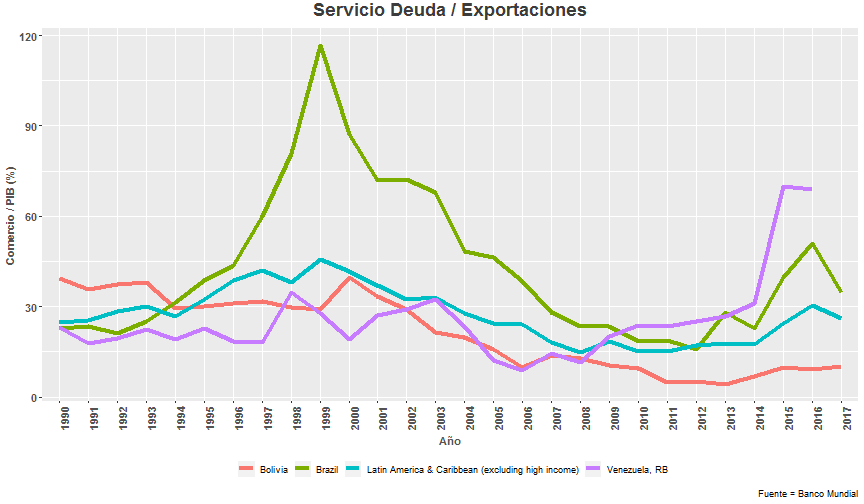
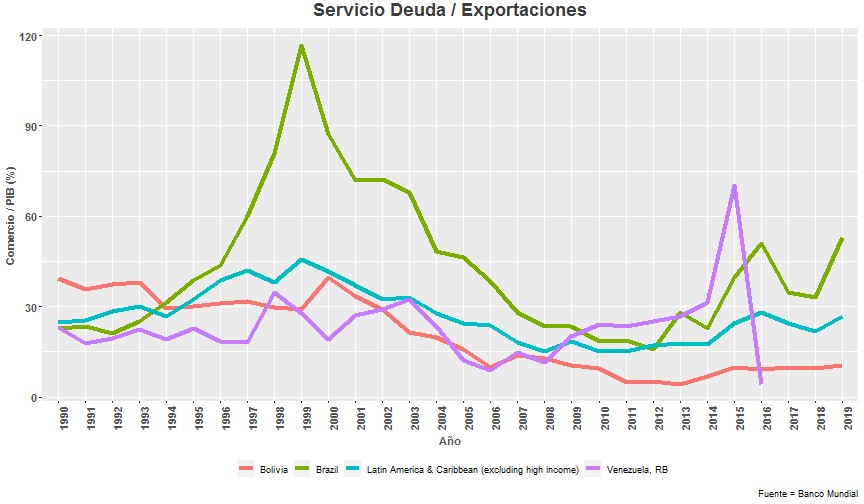
Update graphs & tables up to 2019, fix table dimensions in IMF data, update bankia graphs

diff --git a/presentacion2.html b/presentacion2.html
@@ -14,7 +14,7 @@ class: center, middle, inverse, title-slide
 
 # Economías Emergentes
 ### Kamal Romero
-### Marzo 2019 (actualizado: 2019-11-09)
+### (actualizado: 2020-12-09)
 
 ---
 
@@ -52,7 +52,7 @@ Gran parte de la inversión española en el exterior está en economías emergen
 
 Durante años las necesidades de financiación han sido cubiertas por el resto del mundo
 
-&lt;img src="Dibujo.jpg" width="700"&gt;
+&lt;img src="cap2.jpg" width="700"&gt;
 
 ---
 
@@ -60,7 +60,7 @@ Durante años las necesidades de financiación han sido cubiertas por el resto d
 
 Durante años las necesidades de financiación han sido cubiertas por el resto del mundo
 
-&lt;img src="deuda.png" width="700"&gt;
+&lt;img src="PIIN20.png" width="700"&gt;
 
 ---
 
@@ -140,31 +140,31 @@ Las economías emergentes tienden a ser más &lt;span style="color:blue"&gt; *ab
 &lt;tbody&gt;
   &lt;tr&gt;
    &lt;td style="text-align:left;"&gt; East Asia &amp;amp; Pacific &lt;/td&gt;
-   &lt;td style="text-align:right;"&gt; 54.22541 &lt;/td&gt;
+   &lt;td style="text-align:right;"&gt; 54.30 &lt;/td&gt;
   &lt;/tr&gt;
   &lt;tr&gt;
    &lt;td style="text-align:left;"&gt; European Union &lt;/td&gt;
-   &lt;td style="text-align:right;"&gt; 68.11252 &lt;/td&gt;
+   &lt;td style="text-align:right;"&gt; 71.96 &lt;/td&gt;
   &lt;/tr&gt;
   &lt;tr&gt;
    &lt;td style="text-align:left;"&gt; Japan &lt;/td&gt;
-   &lt;td style="text-align:right;"&gt; 24.91985 &lt;/td&gt;
+   &lt;td style="text-align:right;"&gt; 25.33 &lt;/td&gt;
   &lt;/tr&gt;
   &lt;tr&gt;
    &lt;td style="text-align:left;"&gt; Latin America &amp;amp; Caribbean &lt;/td&gt;
-   &lt;td style="text-align:right;"&gt; 39.92639 &lt;/td&gt;
+   &lt;td style="text-align:right;"&gt; 40.35 &lt;/td&gt;
   &lt;/tr&gt;
   &lt;tr&gt;
    &lt;td style="text-align:left;"&gt; Middle East &amp;amp; North Africa &lt;/td&gt;
-   &lt;td style="text-align:right;"&gt; 73.12435 &lt;/td&gt;
+   &lt;td style="text-align:right;"&gt; 73.58 &lt;/td&gt;
   &lt;/tr&gt;
   &lt;tr&gt;
    &lt;td style="text-align:left;"&gt; North America &lt;/td&gt;
-   &lt;td style="text-align:right;"&gt; 28.69831 &lt;/td&gt;
+   &lt;td style="text-align:right;"&gt; 28.83 &lt;/td&gt;
   &lt;/tr&gt;
   &lt;tr&gt;
    &lt;td style="text-align:left;"&gt; Sub-Saharan Africa &lt;/td&gt;
-   &lt;td style="text-align:right;"&gt; 55.20591 &lt;/td&gt;
+   &lt;td style="text-align:right;"&gt; 54.81 &lt;/td&gt;
   &lt;/tr&gt;
 &lt;/tbody&gt;
 &lt;/table&gt;
@@ -175,7 +175,7 @@ Las economías emergentes tienden a ser más &lt;span style="color:blue"&gt; *ab
 
 Las economías emergentes tienden a ser más &lt;span style="color:blue"&gt; *abiertas* &lt;/span&gt;, es decir, el comercio internacional tiene un mayor peso en su economía.
 
-&lt;center&gt; &lt;span style="color:red"&gt; *FALSO* &lt;/span&gt; &lt;/center&gt;
+&lt;center&gt; &lt;span style="color:red"&gt; FALSO &lt;/span&gt; &lt;/center&gt;
 
 ---
 
@@ -251,40 +251,40 @@ Y la consecuencia de esto es ...
  &lt;thead&gt;
   &lt;tr&gt;
    &lt;th style="text-align:left;"&gt; Conceptos &lt;/th&gt;
-   &lt;th style="text-align:right;"&gt; Emerging Market and Middle-Income Economies &lt;/th&gt;
-   &lt;th style="text-align:right;"&gt; Major Advanced Economies - G7 &lt;/th&gt;
-   &lt;th style="text-align:right;"&gt; Advanced Economies (IMF) &lt;/th&gt;
-   &lt;th style="text-align:right;"&gt; Emerging Market Latin America &lt;/th&gt;
+   &lt;th style="text-align:center;"&gt; Emerging Market and Middle-Income Economies &lt;/th&gt;
+   &lt;th style="text-align:center;"&gt; Major Advanced Economies - G7 &lt;/th&gt;
+   &lt;th style="text-align:center;"&gt; Advanced Economies (IMF) &lt;/th&gt;
+   &lt;th style="text-align:center;"&gt; Emerging Market Latin America &lt;/th&gt;
   &lt;/tr&gt;
  &lt;/thead&gt;
 &lt;tbody&gt;
   &lt;tr&gt;
    &lt;td style="text-align:left;"&gt; Balance &lt;/td&gt;
-   &lt;td style="text-align:right;"&gt; -1.871421 &lt;/td&gt;
-   &lt;td style="text-align:right;"&gt; -4.556874 &lt;/td&gt;
-   &lt;td style="text-align:right;"&gt; -3.754435 &lt;/td&gt;
-   &lt;td style="text-align:right;"&gt; -3.119174 &lt;/td&gt;
+   &lt;td style="text-align:center;"&gt; -2.13 &lt;/td&gt;
+   &lt;td style="text-align:center;"&gt; -4.50 &lt;/td&gt;
+   &lt;td style="text-align:center;"&gt; -3.69 &lt;/td&gt;
+   &lt;td style="text-align:center;"&gt; -3.29 &lt;/td&gt;
   &lt;/tr&gt;
   &lt;tr&gt;
    &lt;td style="text-align:left;"&gt; Expenditure &lt;/td&gt;
-   &lt;td style="text-align:right;"&gt; 28.863887 &lt;/td&gt;
-   &lt;td style="text-align:right;"&gt; 39.754507 &lt;/td&gt;
-   &lt;td style="text-align:right;"&gt; 39.529258 &lt;/td&gt;
-   &lt;td style="text-align:right;"&gt; 31.353223 &lt;/td&gt;
+   &lt;td style="text-align:center;"&gt; 29.17 &lt;/td&gt;
+   &lt;td style="text-align:center;"&gt; 39.74 &lt;/td&gt;
+   &lt;td style="text-align:center;"&gt; 39.50 &lt;/td&gt;
+   &lt;td style="text-align:center;"&gt; 31.51 &lt;/td&gt;
   &lt;/tr&gt;
   &lt;tr&gt;
    &lt;td style="text-align:left;"&gt; Gross debt &lt;/td&gt;
-   &lt;td style="text-align:right;"&gt; 41.356437 &lt;/td&gt;
-   &lt;td style="text-align:right;"&gt; 99.699018 &lt;/td&gt;
-   &lt;td style="text-align:right;"&gt; 89.103941 &lt;/td&gt;
-   &lt;td style="text-align:right;"&gt; 51.401823 &lt;/td&gt;
+   &lt;td style="text-align:center;"&gt; 42.40 &lt;/td&gt;
+   &lt;td style="text-align:center;"&gt; 101.76 &lt;/td&gt;
+   &lt;td style="text-align:center;"&gt; 90.92 &lt;/td&gt;
+   &lt;td style="text-align:center;"&gt; 53.30 &lt;/td&gt;
   &lt;/tr&gt;
   &lt;tr&gt;
    &lt;td style="text-align:left;"&gt; Revenue &lt;/td&gt;
-   &lt;td style="text-align:right;"&gt; 26.992977 &lt;/td&gt;
-   &lt;td style="text-align:right;"&gt; 35.197634 &lt;/td&gt;
-   &lt;td style="text-align:right;"&gt; 35.774823 &lt;/td&gt;
-   &lt;td style="text-align:right;"&gt; 28.234049 &lt;/td&gt;
+   &lt;td style="text-align:center;"&gt; 27.04 &lt;/td&gt;
+   &lt;td style="text-align:center;"&gt; 35.24 &lt;/td&gt;
+   &lt;td style="text-align:center;"&gt; 35.82 &lt;/td&gt;
+   &lt;td style="text-align:center;"&gt; 28.22 &lt;/td&gt;
   &lt;/tr&gt;
 &lt;/tbody&gt;
 &lt;/table&gt;
@@ -295,7 +295,7 @@ Y la consecuencia de esto es ...
 
 Otra característica peculiar de las economías emergentes es la emisión de deuda en moneda **distinta a la local**
 
-&lt;center&gt; &lt;span style="color:blue"&gt; *(Pecado original)* &lt;/span&gt; &lt;/center&gt;
+&lt;center&gt; &lt;span style="color:blue"&gt; (Pecado original)&lt;/span&gt; &lt;/center&gt;
 
 ---
 
